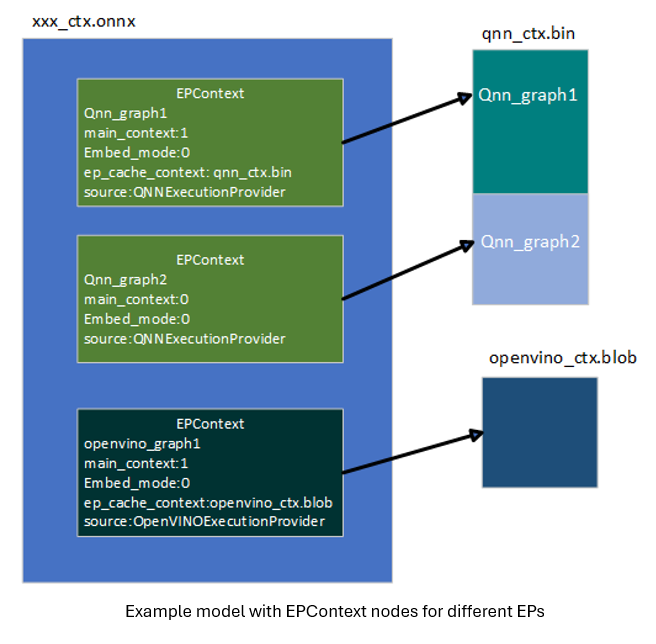
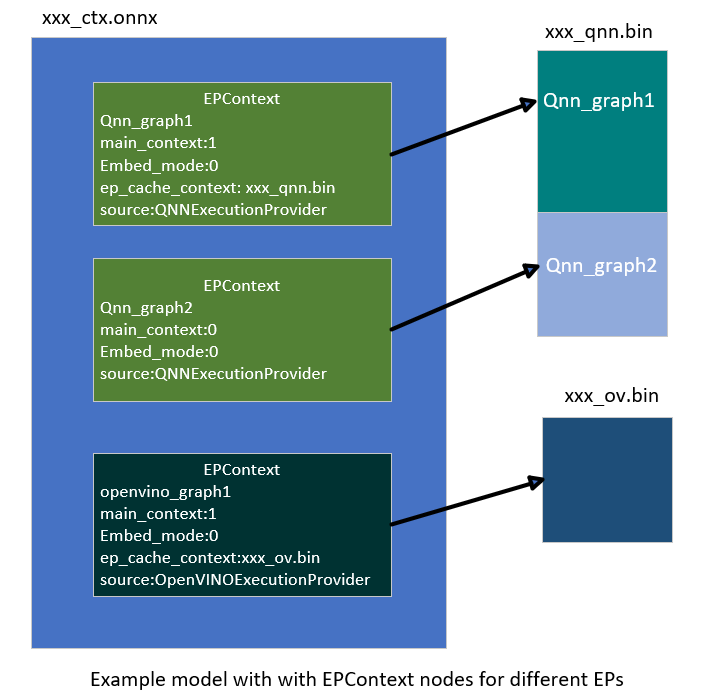
update according review comments

Changed region(s): [[0.0305, 0.0, 0.9756, 0.9938]]

diff --git a/docs/execution-providers/EP-Context-Design.md b/docs/execution-providers/EP-Context-Design.md
@@ -98,9 +98,11 @@ virtual const InlinedVector<const Node*> GetEpContextNodes() const {
 
 - **ep.context_embed_mode**
   - `1`: Embeds the EP context content directly into the ONNX model.
-  - `0` (default): Dumps the EP context content into a **separate file**.
-    - The EP determines the file name and records it in the **EPContext node attribute** `ep_cache_context`.  
-    - The separate file must be located in the **same directory** as the dumped ONNX model file.  
+  - `0` (default): Dumps the EP context content into a **separate file** (EP context binary file).
+    - There should be a single EP context binary, even if multiple partitioned subgraphs exist. If the EP cannot achieve this in the short term, please note it on the EP webpage. In such cases, users will need to determine the necessary files for production deployment by iterating through all primary `EPContext` nodes (nodes with `embed_mode=1`) and extracting the file paths from the **node attribute** `ep_cache_context`.
+    - The EP context binary file name should be [model_name]_[ep].bin. 
+    - The EP records the context binary file name in the **EPContext node attribute** `ep_cache_context`.  
+    - The context binary file must be located in the **same directory** as the dumped ONNX model file.  
     - The file path recorded in the EPContext node is a **relative path** to the ONNX model file.  
     - **Note:** Subfolders are allowed.
 
@@ -259,7 +261,7 @@ To do this, users must **generate the context binary offline** (Ahead Of Time).
 The EP or backend SDK should be capable of converting and compiling the graph as described above.
 - The EP or SDK should identify identical weights from the existing EP context generated by previously compiled graphs.
 - When new graphs are compiled into the EP context, they should reuse existing weights if they are recognized as identical.
-For example, in `ep_ctx.bin`, `tensor1_1` from `ep_graph1` and `tensor2_1` from `ep_graph2` are identical and both point to the same data offset, `tensor_data1`.
+For example, in `[model_name]_[ep].bin`, `tensor1_1` from `ep_graph1` and `tensor2_1` from `ep_graph2` are identical and both point to the same data offset, `tensor_data1`.
 
 ## EPContext Model Generation with Weight Sharing Workflow
 <p align="center"><img width="90%" src="../../images/EP_weight_sharing_workflow.png" alt="Weight sharing workflow"/></p>
@@ -274,6 +276,7 @@ Note: A single ONNX model may contain multiple `EPContext` nodes, depending on t
 <br/>    The first session creates a shared workspace (e.g., EP Singleton) to share resources with other sessions.
 - EP Context Binary File Naming:
 <br/>    The EP context binary file name is determined by the first session and stored in the shared workspace (e.g., EP Singleton) for use across session groups.
+<br/>    The EP context binary file name should be `[model1_name]_[ep].bin`.
 - Graph Compilation:
 <br/>    All sessions in the session group compile their graphs into the shared resource. 
 - `EPContext` Model Generation:
@@ -282,6 +285,9 @@ Note: A single ONNX model may contain multiple `EPContext` nodes, depending on t
 <br/>    The last session (the one with `ep.stop_share_ep_contexts` enabled) in the session group generates the final EP context binary file using the name stored in the shared workspace.
 - Shared Workspace Cleanup:
 <br/>    The last session clears the shared workspace. An empty shared workspace indicates that the next session to run is the first session.
+- Number of Files Generated:
+<br/>    For N source models that share weights, a total of N+1 files should be generated.
+<br/>    The generated files are `model1_ctx.onnx`, ..., `modeln_ctx.onnx`, `[model1_name]_[ep].bin`.
 
 ### User Code Example
 ```
@@ -302,7 +308,7 @@ Note: A single ONNX model may contain multiple `EPContext` nodes, depending on t
     // Mark the last session by enabling ep.stop_share_ep_contexts
     so.AddConfigEntry(kOrtSessionOptionStopShareEpContexts, "1");
 
-    // Create the last session to dump the model2_ctx.onnx file and generate the ep_ctx.bin (this file name is just an example, real name depend on EP implementation)
+    // Create the last session to dump the model2_ctx.onnx file and generate the [model1_name]_[ep].bin
     Ort::Session session2(env, "model2.onnx", so);
 ```
 
@@ -312,7 +318,7 @@ Example command line:
 ```
 ./ep_weight_sharing_ctx_gen -e qnn -i "soc_model|60 htp_graph_finalization_optimization_mode|3" ./model1.onnx,./model2.onnx
 ```
-It creates two Onnx models (`model1_ctx.onnx`, `model2_ctx.onnx`) and one QNN context binary file (`ep_ctx.bin`).
+It creates two Onnx models (`model1_ctx.onnx`, `model2_ctx.onnx`) and one QNN context binary file (`[model1_name]_[ep].bin`).
 
 ## Inference Sessions from EPContext Models with Weight Sharing
 To use the dumped EPContext models with weight sharing enabled, ONNX Runtime inference sessions must have **resource sharing** activated. This is done by setting the session option: 
@@ -325,7 +331,7 @@ To use the dumped EPContext models with weight sharing enabled, ONNX Runtime inf
   - Set session option: `ep.share_ep_contexts=1`.
   - Load the `model1_ctx.onnx` model.
   - The shared workspace is initially empty.
-  - The EP loads `ep_ctx.bin` and deserializes the binary to retrieve all graphs (e.g., `ep_graph1`, `ep_graph2`).
+  - The EP loads `[model1_name]_[ep].bin` and deserializes the binary to retrieve all graphs (e.g., `ep_graph1`, `ep_graph2`).
   - The `EPContext` node in model1_ctx.onnx specifies the use of `ep_graph1`.
   - The session uses `ep_graph1` for inference.
   - The remaining graphs (`ep_graph2`) are placed into the shared workspace for future sessions.
@@ -334,7 +340,7 @@ To use the dumped EPContext models with weight sharing enabled, ONNX Runtime inf
   - Load the `model2_ctx.onnx` model.
   - The `EPContext` node in `model2_ctx.onnx` specifies the use of `ep_graph2`.
   - The shared workspace already contains `ep_graph2`.
-  - The EP **skips loading** `ep_ctx.bin` since the required graph is already available in the shared workspace.
+  - The EP **skips loading** `[model1_name]_[ep].bin` since the required graph is already available in the shared workspace.
   - The session **moves `ep_graph2` from the shared workspace to the current session**, making it **no longer accessible** from the shared workspace.
 - Session Cleanup Best Practices
   - To avoid issues during concurrent execution, it is recommended to **destroy the sessions in reverse order** (i.e., destroy the second session before the first session).
